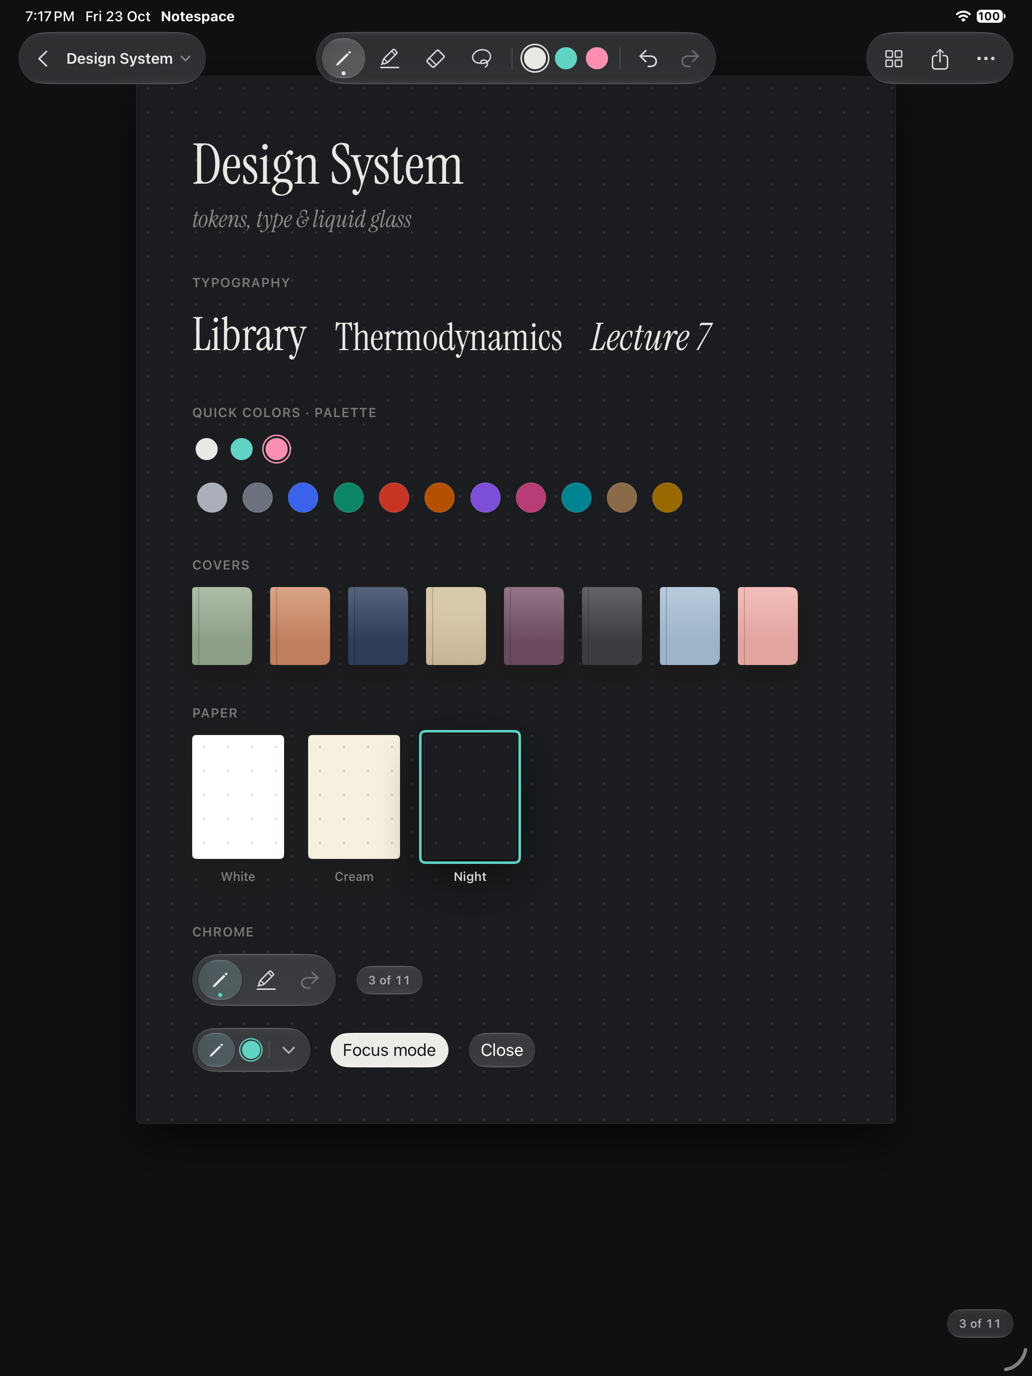
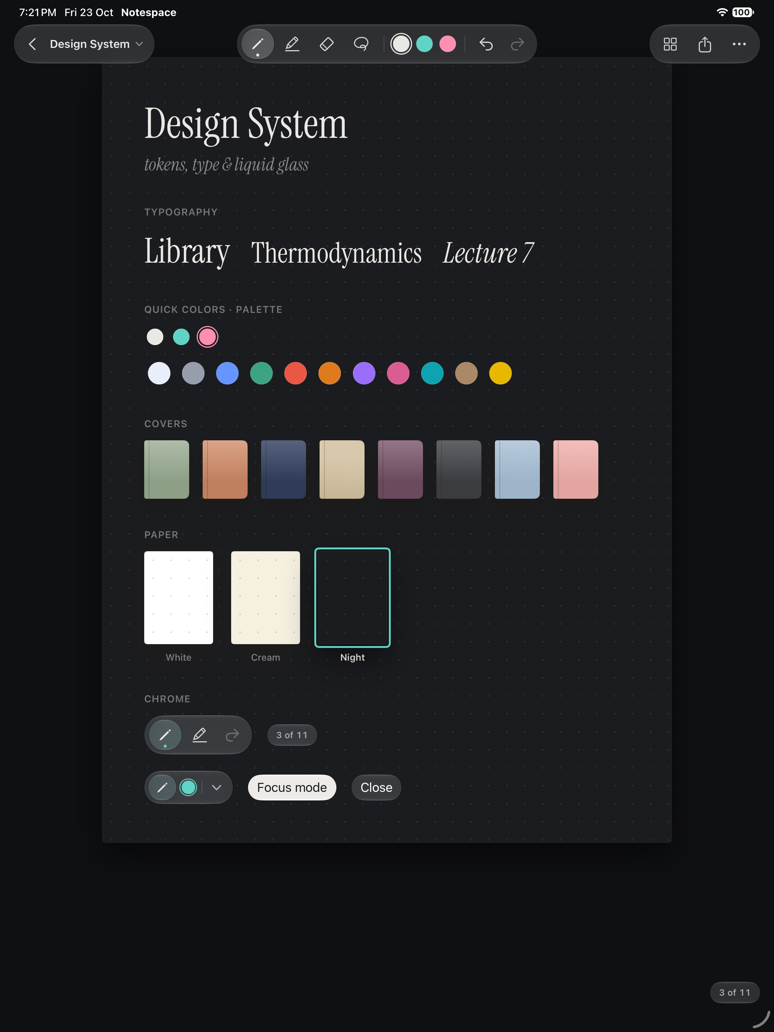
Night remap: mirror dark colors only, never darken; contrast ≥4.5 test

diff --git a/Packages/DesignSystem/Tests/DesignSystemTests/DesignSystemTests.swift b/Packages/DesignSystem/Tests/DesignSystemTests/DesignSystemTests.swift
@@ -50,8 +50,11 @@ struct TokenTests {
     @Test func nightRemapFollowsSpec() {
         let night = PaperTheme.night.palette
         #expect(night.count == 11)
-        for color in night {
-            #expect((0.549 ... 0.951).contains(color.oklch.lightness))
+        for (original, color) in zip(Tokens.palette, night) {
+            #expect((0.649 ... 0.951).contains(color.oklch.lightness))
+            // Never darker than the original, and readable on Night paper.
+            #expect(color.oklch.lightness >= min(original.oklch.lightness, 0.95) - 0.01)
+            #expect(color.contrastRatio(against: PaperTheme.night.paper) >= 4.5)
         }
         #expect(night[0].contrastRatio(against: PaperTheme.night.paper) >= 4.5)
         #expect(PaperTheme.night.adapt(Tokens.palette[0], keepExact: true) == Tokens.palette[0])

diff --git a/Packages/DesignSystem/Sources/DesignSystem/Color/OKLCH.swift b/Packages/DesignSystem/Sources/DesignSystem/Color/OKLCH.swift
@@ -47,10 +47,11 @@ public extension RGBA {
         )
     }
 
-    /// Night-paper remap: `L' = 1 − L` clamped to [0.55, 0.95], hue and chroma kept (§10).
+    /// Night-paper remap (§10): dark colors mirror to light, light colors stay; never darker.
+    /// `L' = clamp(max(L, 1.2 − L), 0.65, 0.95)`, hue and chroma kept.
     func remappedForNight() -> RGBA {
         var lch = oklch
-        lch.lightness = min(max(1 - lch.lightness, 0.55), 0.95)
+        lch.lightness = min(max(max(lch.lightness, 1.2 - lch.lightness), 0.65), 0.95)
         return RGBA(lch, alpha: alpha)
     }
 }

diff --git a/docs/ARCHITECTURE.md b/docs/ARCHITECTURE.md
@@ -274,7 +274,7 @@ Glass: native Liquid Glass, verified in the iOS 27.1 SDK (all `@available(iOS 26
 
 Geometry: capsule height 52, radius 26, blur 24 + saturate 180 %; tool button 44×40 r20, active = 8 % ink tint + 4 pt dot in the current color; quick-color swatch 22 pt, selected ring 2 pt paper + 3.5 pt color; page radius 4, shadow `0 12 40 -12 rgba(40,30,10,.18)`; pages-overview thumb 176×228 r6, selected ring 3 pt blue; cover 150×196, radius 5/12 (spine); popover 328 w r24. Type: SF Pro for UI, **Instrument Serif** (OFL, bundled) for notebook titles and the pages-overview heading. Caveat in the mocks is stand-in handwriting; not shipped.
 
-**Ink color model.** `InkColor` is `semantic(.primary | .blue | .red | .accent)` or `custom(rgba)`. Semantic colors resolve per paper theme at render time (so the same stroke is near-black on cream and off-white on Night). Custom colors on Night paper get their OKLCH lightness remapped (`L' = 1 − L` clamped to [0.55, 0.95], hue/chroma kept) unless the notebook setting "Keep exact colors" is on. Export resolves against the export paper theme (§9).
+**Ink color model.** `InkColor` is `semantic(.primary | .blue | .red | .accent)` or `custom(rgba)`. Semantic colors resolve per paper theme at render time (so the same stroke is near-black on cream and off-white on Night). Custom colors on Night paper get their OKLCH lightness remapped (`L' = clamp(max(L, 1.2 − L), 0.65, 0.95)`, hue/chroma kept: dark colors mirror light, light colors stay, never darker) unless the notebook setting "Keep exact colors" is on. Export resolves against the export paper theme (§9).
 
 ## 11. Perf budgets, mapped
 
